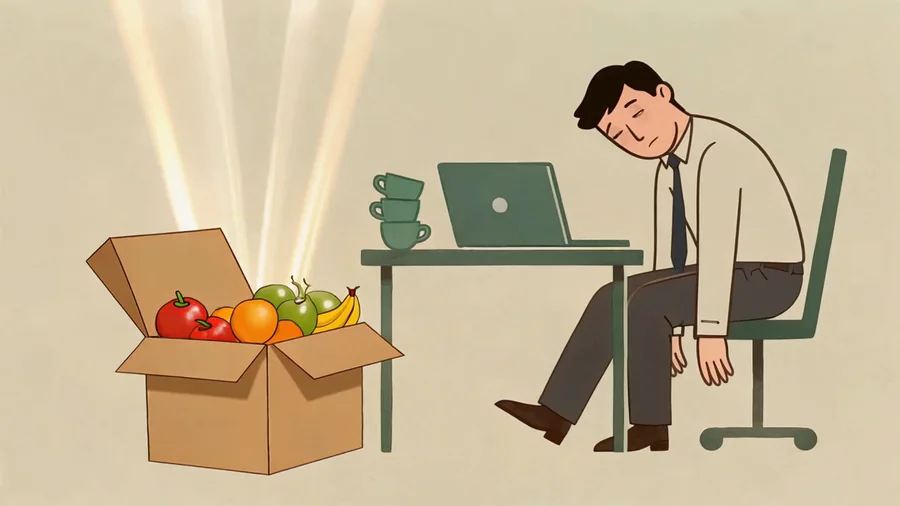
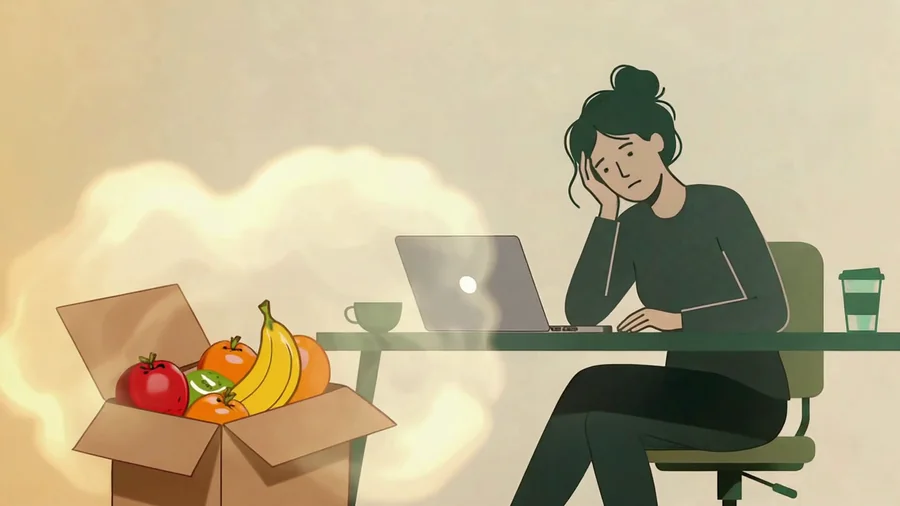
kampania: inna postac w grze (kobieta) niz w suwaku, przedmioty jako ikony osadzone w kadrze zamiast packshotow, kicker 'Wrzesien po urlopach' w hero

diff --git a/powrot-do-zywych-2.html b/powrot-do-zywych-2.html
@@ -103,6 +103,7 @@ header .btn-nav-cta { box-shadow: 0 6px 18px rgba(0,0,0,0.28); }
 .scrub-grid { height: 100%; display: grid; grid-template-columns: 47% 53%; align-items: center; }
 .scrub-copy { padding: 0 clamp(28px, 4vw, 72px); position: relative; z-index: 3; }
 .c-badge { display: inline-block; background: var(--coral); color: #fff; font-size: 12px; font-weight: 900; letter-spacing: 0.1em; text-transform: uppercase; padding: 9px 18px; border-radius: var(--radius-pill); transform: rotate(-2deg); box-shadow: 2px 3px 0 rgba(0,0,0,0.18); margin-bottom: 28px; }
+.kicker { font-size: clamp(11px, 0.95vw, 13px); font-weight: 900; letter-spacing: .18em; text-transform: uppercase; color: var(--lime); margin: 0 0 16px; }
 .scrub-copy h1 { margin: 0 0 26px; letter-spacing: -0.035em; }
 .scrub-copy h1 .l1 { display: block; font-family: var(--font-fun); font-weight: 400; font-size: clamp(40px, 4.9vw, 86px); line-height: .96; color: var(--lime); }
 .scrub-copy h1 .l2 { display: block; font-weight: 900; font-size: clamp(34px, 4.3vw, 74px); line-height: 1.02; letter-spacing: -.04em; color: var(--cream); margin-top: 6px; }
@@ -149,15 +150,15 @@ header .btn-nav-cta { box-shadow: 0 6px 18px rgba(0,0,0,0.28); }
 .game-meter span { display: block; height: 100%; width: 0; background: var(--lime); border-radius: 99px; transition: width .45s cubic-bezier(0.16,1,0.3,1); }
 .game-step { font-size: 12px; font-weight: 900; letter-spacing: .12em; text-transform: uppercase; color: rgba(255,249,224,0.6); font-variant-numeric: tabular-nums; white-space: nowrap; }
 .game-label { font-size: 16px; color: var(--cream); font-weight: 700; min-height: 1.6em; margin-bottom: 26px; }
-.game-items { display: grid; grid-template-columns: repeat(4, 1fr); gap: 14px; }
-.game-item { background: rgba(255,249,224,0.07); border: 1px solid rgba(255,249,224,0.18); border-radius: var(--radius); padding: 16px 12px 18px; text-align: center; cursor: pointer; font: inherit; color: inherit; transition: transform .25s cubic-bezier(0.16,1,0.3,1), background .25s, border-color .25s, opacity .25s; }
-.game-item:hover:not([disabled]) { transform: translateY(-4px); background: rgba(255,249,224,0.13); border-color: rgba(141,198,63,0.6); }
+.game-stage::after { content: ''; position: absolute; left: 0; right: 0; bottom: 0; height: 46%; background: linear-gradient(to top, rgba(10,40,24,0.72), transparent); pointer-events: none; z-index: 1; }
+.game-tray { position: absolute; left: 0; right: 0; bottom: clamp(14px, 2.4vw, 26px); z-index: 2; display: flex; justify-content: center; gap: clamp(10px, 1.6vw, 20px); padding: 0 14px; }
+.game-item { position: relative; background: rgba(255,249,224,0.10); border: 1px solid rgba(255,249,224,0.28); border-radius: 18px; padding: clamp(9px,1.2vw,13px) clamp(8px,1vw,12px) clamp(8px,1vw,11px); cursor: pointer; font: inherit; color: inherit; width: clamp(78px, 10vw, 116px); backdrop-filter: blur(6px); -webkit-backdrop-filter: blur(6px); transition: transform .25s cubic-bezier(0.16,1,0.3,1), background .25s, border-color .25s, opacity .25s; }
+.game-item:hover:not([disabled]) { transform: translateY(-5px); background: rgba(255,249,224,0.2); border-color: rgba(141,198,63,0.75); }
 .game-item:focus-visible { outline: 2px solid var(--lime); outline-offset: 3px; }
-.game-item img { height: 74px; width: auto; max-width: 100%; object-fit: contain; display: block; margin: 0 auto 12px; }
-.game-item b { display: block; font-size: 14px; font-weight: 800; color: var(--cream); margin-bottom: 3px; letter-spacing: -0.01em; }
-.game-item span { display: block; font-size: 12px; line-height: 1.4; color: rgba(255,249,224,0.62); }
-.game-item[disabled] { opacity: .38; cursor: default; border-style: dashed; }
-.game-item[disabled]::after { content: ' ✓'; color: var(--lime); font-weight: 900; }
+.game-item img { height: clamp(34px, 4.2vw, 50px); width: auto; object-fit: contain; display: block; margin: 0 auto clamp(5px,0.7vw,8px); }
+.game-item b { display: block; font-size: clamp(10px, 1vw, 12.5px); font-weight: 800; color: var(--cream); letter-spacing: -0.01em; line-height: 1.25; }
+.game-item[disabled] { opacity: .34; cursor: default; border-style: dashed; transform: none; }
+.game-item[disabled]::after { content: '✓'; position: absolute; top: -8px; right: -6px; width: 22px; height: 22px; border-radius: 50%; background: var(--lime); color: var(--green-dark); font-size: 12px; font-weight: 900; display: flex; align-items: center; justify-content: center; box-shadow: 0 3px 8px rgba(0,0,0,.3); }
 .game-done { margin-top: 28px; text-align: center; }
 .game-done p { color: rgba(255,249,224,0.8); font-size: 16px; margin-bottom: 18px; }
 .game-done[hidden] { display: none; }
@@ -230,7 +231,7 @@ header .btn-nav-cta { box-shadow: 0 6px 18px rgba(0,0,0,0.28); }
     .sym-grid { grid-template-columns: 1fr; }
     .cure-grid { grid-template-columns: 1fr 1fr; }
     .prod-grid { grid-template-columns: 1fr 1fr; }
-    .game-items { grid-template-columns: 1fr 1fr; }
+    .game-tray { flex-wrap: wrap; gap: 8px; }
     .proof-grid { grid-template-columns: repeat(2, 1fr); gap: 34px 20px; }
 }
 @media (max-width: 720px) {
@@ -301,6 +302,7 @@ html.pt-in body>:not(header) { animation: ptFadeIn 0.32s ease both; }
     <div class="scrub-sticky">
         <div class="scrub-grid">
             <div class="scrub-copy">
+                <p class="kicker">Wrzesień po urlopach</p>
                 <h1>
                     <span class="l1">Powrót do biur.</span>
                     <span class="l2">Powrót do żywych.</span>
@@ -438,31 +440,19 @@ html.pt-in body>:not(header) { animation: ptFadeIn 0.32s ease both; }
         </div>
         <div class="game-wrap">
             <div class="game-stage">
-                <img id="gameArt" src="gra-stan-0.webp" alt="Pracownik przy biurku, stan energii zmienia się wraz z kolejnymi rytuałami" width="900" height="506">
+                <img id="gameArt" src="gra-stan-0.webp" alt="Pracowniczka przy biurku, stan energii zmienia się wraz z kolejnymi rytuałami" width="900" height="506">
+                <div class="game-tray">
+                    <button type="button" class="game-item" data-stage="1"><img src="icons/icon-crate-fruit.webp" alt=""><b>Owocowe Czwartki</b></button>
+                    <button type="button" class="game-item" data-stage="2"><img src="icons/icon-sandwich-half.webp" alt=""><b>Kanapkowe Wtorki</b></button>
+                    <button type="button" class="game-item" data-stage="3"><img src="icons/icon-nuts-bowl.webp" alt=""><b>Przekąski</b></button>
+                    <button type="button" class="game-item" data-stage="4"><img src="icons/icon-health-day.webp" alt=""><b>Dzień Zdrowia</b></button>
+                </div>
             </div>
             <div class="game-bar">
                 <div class="game-meter"><span id="gameFill"></span></div>
                 <span class="game-step" id="gameStep">0 / 4</span>
             </div>
             <p class="game-label" id="gameLabel">Poniedziałek, 14:37. Zespół pracuje na rezerwie.</p>
-            <div class="game-items">
-                <button type="button" class="game-item" data-stage="1">
-                    <img src="packshot-owoce.webp" alt="" loading="lazy">
-                    <b>Owocowe Czwartki</b><span>Owoce sezonowe</span>
-                </button>
-                <button type="button" class="game-item" data-stage="2">
-                    <img src="packshot-kanapki.webp" alt="" loading="lazy">
-                    <b>Kanapkowe Wtorki</b><span>Kanapki i lunche</span>
-                </button>
-                <button type="button" class="game-item" data-stage="3">
-                    <img src="packshot-bakalie.webp" alt="" loading="lazy">
-                    <b>Przekąski</b><span>Bakalie i orzechy</span>
-                </button>
-                <button type="button" class="game-item" data-stage="4">
-                    <img src="packshot-soki.webp" alt="" loading="lazy">
-                    <b>Dzień Zdrowia</b><span>Soki i napoje</span>
-                </button>
-            </div>
             <div class="game-done" id="gameDone" hidden>
                 <p><b>Cztery tygodnie i tyle.</b> Tak wygląda wrzesień, w którym zespół ma paliwo.</p>
                 <a href="#formularz" class="btn-feed">Nakarm swój zespół →</a>
